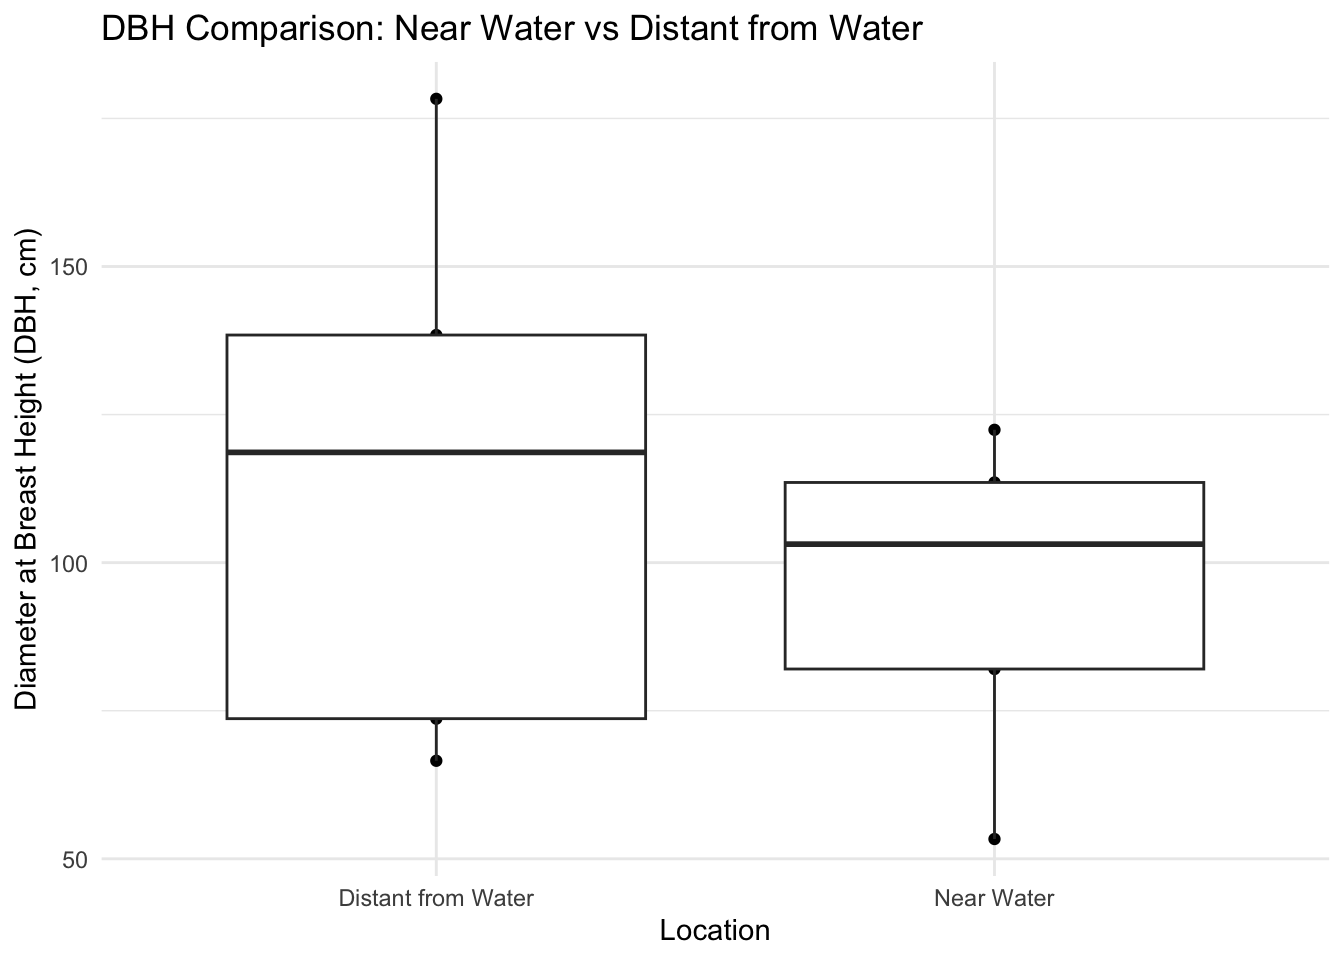
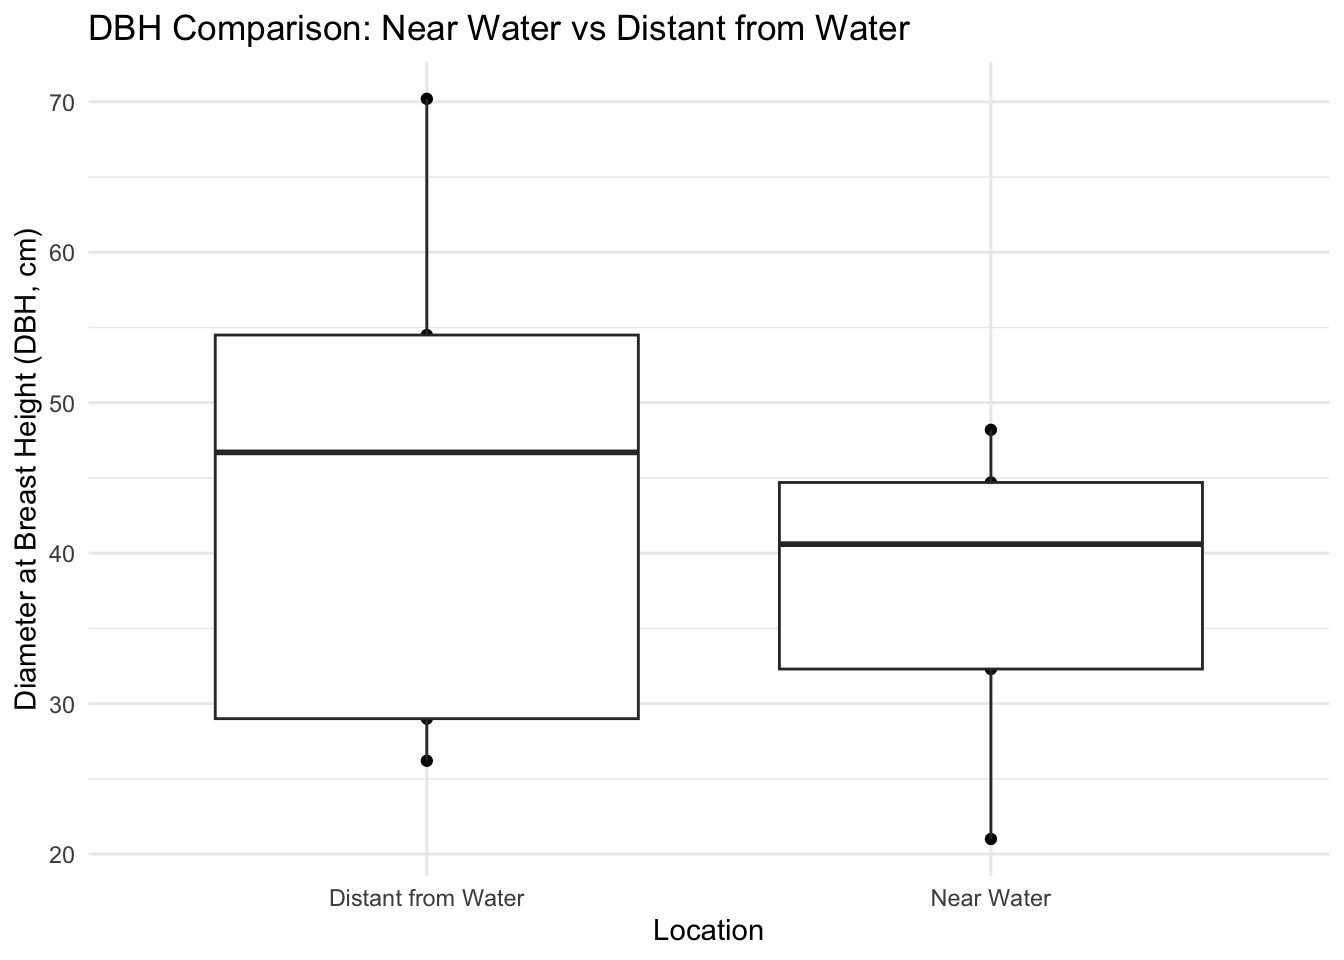
Measurements were taken in cm NOT inches... Fixed it, uploading the fixed version.

diff --git a/Pollution_Project_Part_1.html b/Pollution_Project_Part_1.html
@@ -175,8 +175,8 @@ Attaching package: 'kableExtra'</code></pre>
 <span id="cb6-3"><a href="#cb6-3" aria-hidden="true" tabindex="-1"></a>dbh_distant_from_water <span class="ot">&lt;-</span> <span class="fu">c</span>(<span class="fl">54.5</span>, <span class="fl">70.2</span>, <span class="fl">29.0</span>, <span class="fl">26.2</span>, <span class="fl">46.7</span>)</span>
 <span id="cb6-4"><a href="#cb6-4" aria-hidden="true" tabindex="-1"></a></span>
 <span id="cb6-5"><a href="#cb6-5" aria-hidden="true" tabindex="-1"></a><span class="co"># Convert DBH from inches to centimeters</span></span>
-<span id="cb6-6"><a href="#cb6-6" aria-hidden="true" tabindex="-1"></a>dbh_near_water <span class="ot">&lt;-</span> dbh_near_water <span class="sc">*</span> <span class="fl">2.54</span></span>
-<span id="cb6-7"><a href="#cb6-7" aria-hidden="true" tabindex="-1"></a>dbh_distant_from_water <span class="ot">&lt;-</span> dbh_distant_from_water <span class="sc">*</span> <span class="fl">2.54</span></span>
+<span id="cb6-6"><a href="#cb6-6" aria-hidden="true" tabindex="-1"></a><span class="co">#dbh_near_water &lt;- dbh_near_water * 2.54</span></span>
+<span id="cb6-7"><a href="#cb6-7" aria-hidden="true" tabindex="-1"></a><span class="co">#dbh_distant_from_water &lt;- dbh_distant_from_water * 2.54</span></span>
 <span id="cb6-8"><a href="#cb6-8" aria-hidden="true" tabindex="-1"></a></span>
 <span id="cb6-9"><a href="#cb6-9" aria-hidden="true" tabindex="-1"></a><span class="co"># Merge datasets and reshape for plotting</span></span>
 <span id="cb6-10"><a href="#cb6-10" aria-hidden="true" tabindex="-1"></a>df_near_water <span class="ot">&lt;-</span> <span class="fu">data.frame</span>(<span class="at">DBH =</span> dbh_near_water, <span class="at">Location =</span> <span class="st">"Near Water"</span>)</span>
@@ -212,74 +212,74 @@ Attaching package: 'kableExtra'</code></pre>
  </thead>
 <tbody>
   <tr>
-   <td style="text-align:right;"> 122.428 </td>
+   <td style="text-align:right;"> 48.2 </td>
    <td style="text-align:left;"> Near Water </td>
-   <td style="text-align:right;"> 4631.228 </td>
-   <td style="text-align:right;"> 2084.0526 </td>
-   <td style="text-align:right;"> 7641.526 </td>
+   <td style="text-align:right;"> 1575.0386 </td>
+   <td style="text-align:right;"> 708.7674 </td>
+   <td style="text-align:right;"> 2598.8137 </td>
   </tr>
   <tr>
-   <td style="text-align:right;"> 82.042 </td>
+   <td style="text-align:right;"> 32.3 </td>
    <td style="text-align:left;"> Near Water </td>
-   <td style="text-align:right;"> 2968.415 </td>
-   <td style="text-align:right;"> 1335.7869 </td>
-   <td style="text-align:right;"> 4897.885 </td>
+   <td style="text-align:right;"> 920.3879 </td>
+   <td style="text-align:right;"> 414.1746 </td>
+   <td style="text-align:right;"> 1518.6400 </td>
   </tr>
   <tr>
-   <td style="text-align:right;"> 103.124 </td>
+   <td style="text-align:right;"> 40.6 </td>
    <td style="text-align:left;"> Near Water </td>
-   <td style="text-align:right;"> 3836.425 </td>
-   <td style="text-align:right;"> 1726.3910 </td>
-   <td style="text-align:right;"> 6330.100 </td>
+   <td style="text-align:right;"> 1262.1238 </td>
+   <td style="text-align:right;"> 567.9557 </td>
+   <td style="text-align:right;"> 2082.5043 </td>
   </tr>
   <tr>
-   <td style="text-align:right;"> 53.340 </td>
+   <td style="text-align:right;"> 21.0 </td>
    <td style="text-align:left;"> Near Water </td>
-   <td style="text-align:right;"> 1786.668 </td>
-   <td style="text-align:right;"> 804.0005 </td>
-   <td style="text-align:right;"> 2948.002 </td>
+   <td style="text-align:right;"> 455.1330 </td>
+   <td style="text-align:right;"> 204.8099 </td>
+   <td style="text-align:right;"> 750.9695 </td>
   </tr>
   <tr>
-   <td style="text-align:right;"> 113.538 </td>
+   <td style="text-align:right;"> 44.7 </td>
    <td style="text-align:left;"> Near Water </td>
-   <td style="text-align:right;"> 4265.200 </td>
-   <td style="text-align:right;"> 1919.3400 </td>
-   <td style="text-align:right;"> 7037.580 </td>
+   <td style="text-align:right;"> 1430.9331 </td>
+   <td style="text-align:right;"> 643.9199 </td>
+   <td style="text-align:right;"> 2361.0396 </td>
   </tr>
   <tr>
-   <td style="text-align:right;"> 138.430 </td>
+   <td style="text-align:right;"> 54.5 </td>
    <td style="text-align:left;"> Distant from Water </td>
-   <td style="text-align:right;"> 5290.078 </td>
-   <td style="text-align:right;"> 2380.5353 </td>
-   <td style="text-align:right;"> 8728.629 </td>
+   <td style="text-align:right;"> 1834.4285 </td>
+   <td style="text-align:right;"> 825.4928 </td>
+   <td style="text-align:right;"> 3026.8070 </td>
   </tr>
   <tr>
-   <td style="text-align:right;"> 178.308 </td>
+   <td style="text-align:right;"> 70.2 </td>
    <td style="text-align:left;"> Distant from Water </td>
-   <td style="text-align:right;"> 6931.975 </td>
-   <td style="text-align:right;"> 3119.3889 </td>
-   <td style="text-align:right;"> 11437.759 </td>
+   <td style="text-align:right;"> 2480.8446 </td>
+   <td style="text-align:right;"> 1116.3801 </td>
+   <td style="text-align:right;"> 4093.3936 </td>
   </tr>
   <tr>
-   <td style="text-align:right;"> 73.660 </td>
+   <td style="text-align:right;"> 29.0 </td>
    <td style="text-align:left;"> Distant from Water </td>
-   <td style="text-align:right;"> 2623.303 </td>
-   <td style="text-align:right;"> 1180.4864 </td>
-   <td style="text-align:right;"> 4328.450 </td>
+   <td style="text-align:right;"> 784.5170 </td>
+   <td style="text-align:right;"> 353.0327 </td>
+   <td style="text-align:right;"> 1294.4531 </td>
   </tr>
   <tr>
-   <td style="text-align:right;"> 66.548 </td>
+   <td style="text-align:right;"> 26.2 </td>
    <td style="text-align:left;"> Distant from Water </td>
-   <td style="text-align:right;"> 2330.481 </td>
-   <td style="text-align:right;"> 1048.7164 </td>
-   <td style="text-align:right;"> 3845.293 </td>
+   <td style="text-align:right;"> 669.2326 </td>
+   <td style="text-align:right;"> 301.1547 </td>
+   <td style="text-align:right;"> 1104.2338 </td>
   </tr>
   <tr>
-   <td style="text-align:right;"> 118.618 </td>
+   <td style="text-align:right;"> 46.7 </td>
    <td style="text-align:left;"> Distant from Water </td>
-   <td style="text-align:right;"> 4474.359 </td>
-   <td style="text-align:right;"> 2013.4615 </td>
-   <td style="text-align:right;"> 7382.692 </td>
+   <td style="text-align:right;"> 1513.2791 </td>
+   <td style="text-align:right;"> 680.9756 </td>
+   <td style="text-align:right;"> 2496.9105 </td>
   </tr>
 </tbody>
 </table>
@@ -292,7 +292,7 @@ Attaching package: 'kableExtra'</code></pre>
 <p>These measurements were taken March 20th, 2023 at the SNHU Arboretum for part 1 of the stream pollution experiment that will be taking place for the remainder of this semester. The first step was to <strong>gather diameter at breast height for two sets of trees in 15 x 15 foot plot</strong>s<strong>.</strong> This data will be useful when considering additional details about the stream.</p>
 <ul>
 <li><p>“near water” was measured between 1 and 5 yards around a seasonal second order stream. Trees were measured at breast height in a cluster of ~ 15 feet^2.</p></li>
-<li><p>This plot represents the bottom of a small slope seperating the walking path of the arboretum and the highway ~ 1/4 mile away</p></li>
+<li><p>This plot represents the bottom of a small slope separating the walking path of the arboretum and the highway ~ 1/4 mile away</p></li>
 <li><p>both plots are only a short distance (100 ft at the furthest) from the walking path, likely a highly disturbed part of the forest.</p></li>
 </ul>
 </section>
@@ -301,27 +301,35 @@ Attaching package: 'kableExtra'</code></pre>
 <div class="cell">
 <div class="sourceCode cell-code" id="cb8"><pre class="sourceCode r code-with-copy"><code class="sourceCode r"><span id="cb8-1"><a href="#cb8-1" aria-hidden="true" tabindex="-1"></a>combined_df <span class="sc">%&gt;%</span></span>
 <span id="cb8-2"><a href="#cb8-2" aria-hidden="true" tabindex="-1"></a>  <span class="fu">group_by</span>(Location) <span class="sc">%&gt;%</span></span>
-<span id="cb8-3"><a href="#cb8-3" aria-hidden="true" tabindex="-1"></a><span class="fu">summarise</span>( <span class="st">"average CO2 (kg CO2/tree)"</span> <span class="ot">=</span> <span class="fu">mean</span>(<span class="st">`</span><span class="at">Carbon (kg/tree)</span><span class="st">`</span>),</span>
-<span id="cb8-4"><a href="#cb8-4" aria-hidden="true" tabindex="-1"></a>           ) <span class="sc">%&gt;%</span></span>
-<span id="cb8-5"><a href="#cb8-5" aria-hidden="true" tabindex="-1"></a><span class="fu">kable</span>(<span class="at">digits =</span> <span class="dv">0</span>) <span class="sc">%&gt;%</span></span>
-<span id="cb8-6"><a href="#cb8-6" aria-hidden="true" tabindex="-1"></a>  <span class="fu">kable_styling</span>(<span class="at">bootstrap_options =</span> <span class="st">"striped"</span>, <span class="st">"hover"</span>)</span></code><button title="Copy to Clipboard" class="code-copy-button"><i class="bi"></i></button></pre></div>
+<span id="cb8-3"><a href="#cb8-3" aria-hidden="true" tabindex="-1"></a><span class="fu">summarise</span>(<span class="st">"Average Biomass (kg/tree)"</span> <span class="ot">=</span> <span class="fu">mean</span>(<span class="st">`</span><span class="at">Biomass (kg/tree)</span><span class="st">`</span>),</span>
+<span id="cb8-4"><a href="#cb8-4" aria-hidden="true" tabindex="-1"></a>           <span class="st">"Average Carbon (kg/tree)"</span> <span class="ot">=</span> <span class="fu">mean</span>(<span class="st">`</span><span class="at">Carbon (kg/tree)</span><span class="st">`</span>),</span>
+<span id="cb8-5"><a href="#cb8-5" aria-hidden="true" tabindex="-1"></a>           <span class="st">"Average CO2 (kg/tree)"</span> <span class="ot">=</span> <span class="fu">mean</span>(<span class="st">`</span><span class="at">CO2_per_tree (kg/tree)</span><span class="st">`</span>)</span>
+<span id="cb8-6"><a href="#cb8-6" aria-hidden="true" tabindex="-1"></a>           )<span class="sc">%&gt;%</span></span>
+<span id="cb8-7"><a href="#cb8-7" aria-hidden="true" tabindex="-1"></a><span class="fu">kable</span>(<span class="at">digits =</span> <span class="dv">0</span>) <span class="sc">%&gt;%</span></span>
+<span id="cb8-8"><a href="#cb8-8" aria-hidden="true" tabindex="-1"></a>  <span class="fu">kable_styling</span>(<span class="at">bootstrap_options =</span> <span class="st">"striped"</span>, <span class="st">"hover"</span>)</span></code><button title="Copy to Clipboard" class="code-copy-button"><i class="bi"></i></button></pre></div>
 <div class="cell-output-display">
 
 <table class="table table-striped" style="margin-left: auto; margin-right: auto;">
  <thead>
   <tr>
    <th style="text-align:left;"> Location </th>
-   <th style="text-align:right;"> average CO2 (kg CO2/tree) </th>
+   <th style="text-align:right;"> Average Biomass (kg/tree) </th>
+   <th style="text-align:right;"> Average Carbon (kg/tree) </th>
+   <th style="text-align:right;"> Average CO2 (kg/tree) </th>
   </tr>
  </thead>
 <tbody>
   <tr>
    <td style="text-align:left;"> Distant from Water </td>
-   <td style="text-align:right;"> 1949 </td>
+   <td style="text-align:right;"> 1456 </td>
+   <td style="text-align:right;"> 655 </td>
+   <td style="text-align:right;"> 2403 </td>
   </tr>
   <tr>
    <td style="text-align:left;"> Near Water </td>
-   <td style="text-align:right;"> 1574 </td>
+   <td style="text-align:right;"> 1129 </td>
+   <td style="text-align:right;"> 508 </td>
+   <td style="text-align:right;"> 1862 </td>
   </tr>
 </tbody>
 </table>
@@ -355,10 +363,10 @@ data:  dbh_distant_from_water and dbh_near_water
 t = 0.83622, df = 6.524, p-value = 0.4326
 alternative hypothesis: true difference in means is not equal to 0
 95 percent confidence interval:
- -37.81082  78.24762
+ -14.88615  30.80615
 sample estimates:
 mean of x mean of y 
- 115.1128   94.8944 </code></pre>
+    45.32     37.36 </code></pre>
 </div>
 </div>
 </section>

diff --git a/Pollution_Project_Part_1.md b/Pollution_Project_Part_1.md
@@ -71,8 +71,8 @@ dbh_near_water <- c(48.2, 32.3, 40.6, 21.0, 44.7)
 dbh_distant_from_water <- c(54.5, 70.2, 29.0, 26.2, 46.7)
 
 # Convert DBH from inches to centimeters
-dbh_near_water <- dbh_near_water * 2.54
-dbh_distant_from_water <- dbh_distant_from_water * 2.54
+#dbh_near_water <- dbh_near_water * 2.54
+#dbh_distant_from_water <- dbh_distant_from_water * 2.54
 
 # Merge datasets and reshape for plotting
 df_near_water <- data.frame(DBH = dbh_near_water, Location = "Near Water")
@@ -115,74 +115,74 @@ combined_df %>%
  </thead>
 <tbody>
   <tr>
-   <td style="text-align:right;"> 122.428 </td>
+   <td style="text-align:right;"> 48.2 </td>
    <td style="text-align:left;"> Near Water </td>
-   <td style="text-align:right;"> 4631.228 </td>
-   <td style="text-align:right;"> 2084.0526 </td>
-   <td style="text-align:right;"> 7641.526 </td>
+   <td style="text-align:right;"> 1575.0386 </td>
+   <td style="text-align:right;"> 708.7674 </td>
+   <td style="text-align:right;"> 2598.8137 </td>
   </tr>
   <tr>
-   <td style="text-align:right;"> 82.042 </td>
+   <td style="text-align:right;"> 32.3 </td>
    <td style="text-align:left;"> Near Water </td>
-   <td style="text-align:right;"> 2968.415 </td>
-   <td style="text-align:right;"> 1335.7869 </td>
-   <td style="text-align:right;"> 4897.885 </td>
+   <td style="text-align:right;"> 920.3879 </td>
+   <td style="text-align:right;"> 414.1746 </td>
+   <td style="text-align:right;"> 1518.6400 </td>
   </tr>
   <tr>
-   <td style="text-align:right;"> 103.124 </td>
+   <td style="text-align:right;"> 40.6 </td>
    <td style="text-align:left;"> Near Water </td>
-   <td style="text-align:right;"> 3836.425 </td>
-   <td style="text-align:right;"> 1726.3910 </td>
-   <td style="text-align:right;"> 6330.100 </td>
+   <td style="text-align:right;"> 1262.1238 </td>
+   <td style="text-align:right;"> 567.9557 </td>
+   <td style="text-align:right;"> 2082.5043 </td>
   </tr>
   <tr>
-   <td style="text-align:right;"> 53.340 </td>
+   <td style="text-align:right;"> 21.0 </td>
    <td style="text-align:left;"> Near Water </td>
-   <td style="text-align:right;"> 1786.668 </td>
-   <td style="text-align:right;"> 804.0005 </td>
-   <td style="text-align:right;"> 2948.002 </td>
+   <td style="text-align:right;"> 455.1330 </td>
+   <td style="text-align:right;"> 204.8099 </td>
+   <td style="text-align:right;"> 750.9695 </td>
   </tr>
   <tr>
-   <td style="text-align:right;"> 113.538 </td>
+   <td style="text-align:right;"> 44.7 </td>
    <td style="text-align:left;"> Near Water </td>
-   <td style="text-align:right;"> 4265.200 </td>
-   <td style="text-align:right;"> 1919.3400 </td>
-   <td style="text-align:right;"> 7037.580 </td>
+   <td style="text-align:right;"> 1430.9331 </td>
+   <td style="text-align:right;"> 643.9199 </td>
+   <td style="text-align:right;"> 2361.0396 </td>
   </tr>
   <tr>
-   <td style="text-align:right;"> 138.430 </td>
+   <td style="text-align:right;"> 54.5 </td>
    <td style="text-align:left;"> Distant from Water </td>
-   <td style="text-align:right;"> 5290.078 </td>
-   <td style="text-align:right;"> 2380.5353 </td>
-   <td style="text-align:right;"> 8728.629 </td>
+   <td style="text-align:right;"> 1834.4285 </td>
+   <td style="text-align:right;"> 825.4928 </td>
+   <td style="text-align:right;"> 3026.8070 </td>
   </tr>
   <tr>
-   <td style="text-align:right;"> 178.308 </td>
+   <td style="text-align:right;"> 70.2 </td>
    <td style="text-align:left;"> Distant from Water </td>
-   <td style="text-align:right;"> 6931.975 </td>
-   <td style="text-align:right;"> 3119.3889 </td>
-   <td style="text-align:right;"> 11437.759 </td>
+   <td style="text-align:right;"> 2480.8446 </td>
+   <td style="text-align:right;"> 1116.3801 </td>
+   <td style="text-align:right;"> 4093.3936 </td>
   </tr>
   <tr>
-   <td style="text-align:right;"> 73.660 </td>
+   <td style="text-align:right;"> 29.0 </td>
    <td style="text-align:left;"> Distant from Water </td>
-   <td style="text-align:right;"> 2623.303 </td>
-   <td style="text-align:right;"> 1180.4864 </td>
-   <td style="text-align:right;"> 4328.450 </td>
+   <td style="text-align:right;"> 784.5170 </td>
+   <td style="text-align:right;"> 353.0327 </td>
+   <td style="text-align:right;"> 1294.4531 </td>
   </tr>
   <tr>
-   <td style="text-align:right;"> 66.548 </td>
+   <td style="text-align:right;"> 26.2 </td>
    <td style="text-align:left;"> Distant from Water </td>
-   <td style="text-align:right;"> 2330.481 </td>
-   <td style="text-align:right;"> 1048.7164 </td>
-   <td style="text-align:right;"> 3845.293 </td>
+   <td style="text-align:right;"> 669.2326 </td>
+   <td style="text-align:right;"> 301.1547 </td>
+   <td style="text-align:right;"> 1104.2338 </td>
   </tr>
   <tr>
-   <td style="text-align:right;"> 118.618 </td>
+   <td style="text-align:right;"> 46.7 </td>
    <td style="text-align:left;"> Distant from Water </td>
-   <td style="text-align:right;"> 4474.359 </td>
-   <td style="text-align:right;"> 2013.4615 </td>
-   <td style="text-align:right;"> 7382.692 </td>
+   <td style="text-align:right;"> 1513.2791 </td>
+   <td style="text-align:right;"> 680.9756 </td>
+   <td style="text-align:right;"> 2496.9105 </td>
   </tr>
 </tbody>
 </table>
@@ -199,7 +199,7 @@ These measurements were taken March 20th, 2023 at the SNHU Arboretum for part 1 
 
 -   "near water" was measured between 1 and 5 yards around a seasonal second order stream. Trees were measured at breast height in a cluster of \~ 15 feet\^2.
 
--   This plot represents the bottom of a small slope seperating the walking path of the arboretum and the highway \~ 1/4 mile away
+-   This plot represents the bottom of a small slope separating the walking path of the arboretum and the highway \~ 1/4 mile away
 
 -   both plots are only a short distance (100 ft at the furthest) from the walking path, likely a highly disturbed part of the forest.
 
@@ -211,8 +211,10 @@ These measurements were taken March 20th, 2023 at the SNHU Arboretum for part 1 
 ```{.r .cell-code}
 combined_df %>%
   group_by(Location) %>%
-summarise( "average CO2 (kg CO2/tree)" = mean(`Carbon (kg/tree)`),
-           ) %>%
+summarise("Average Biomass (kg/tree)" = mean(`Biomass (kg/tree)`),
+           "Average Carbon (kg/tree)" = mean(`Carbon (kg/tree)`),
+           "Average CO2 (kg/tree)" = mean(`CO2_per_tree (kg/tree)`)
+           )%>%
 kable(digits = 0) %>%
   kable_styling(bootstrap_options = "striped", "hover")
 ```
@@ -224,17 +226,23 @@ kable(digits = 0) %>%
  <thead>
   <tr>
    <th style="text-align:left;"> Location </th>
-   <th style="text-align:right;"> average CO2 (kg CO2/tree) </th>
+   <th style="text-align:right;"> Average Biomass (kg/tree) </th>
+   <th style="text-align:right;"> Average Carbon (kg/tree) </th>
+   <th style="text-align:right;"> Average CO2 (kg/tree) </th>
   </tr>
  </thead>
 <tbody>
   <tr>
    <td style="text-align:left;"> Distant from Water </td>
-   <td style="text-align:right;"> 1949 </td>
+   <td style="text-align:right;"> 1456 </td>
+   <td style="text-align:right;"> 655 </td>
+   <td style="text-align:right;"> 2403 </td>
   </tr>
   <tr>
    <td style="text-align:left;"> Near Water </td>
-   <td style="text-align:right;"> 1574 </td>
+   <td style="text-align:right;"> 1129 </td>
+   <td style="text-align:right;"> 508 </td>
+   <td style="text-align:right;"> 1862 </td>
   </tr>
 </tbody>
 </table>
@@ -263,7 +271,7 @@ ggplot(combined_df) +
 :::
 
 
-### Observations: 
+### Observations:
 
 Considering the graph, this does seem to support a statistically significant difference between the measurements taken near and far from the stream. Distant from the water, there seems to be a significant amount of deviation from the mean that could account for a much less significant difference between these two groups.
 
@@ -283,10 +291,10 @@ data:  dbh_distant_from_water and dbh_near_water
 t = 0.83622, df = 6.524, p-value = 0.4326
 alternative hypothesis: true difference in means is not equal to 0
 95 percent confidence interval:
- -37.81082  78.24762
+ -14.88615  30.80615
 sample estimates:
 mean of x mean of y 
- 115.1128   94.8944 
+    45.32     37.36 
 ```
 :::
 :::
